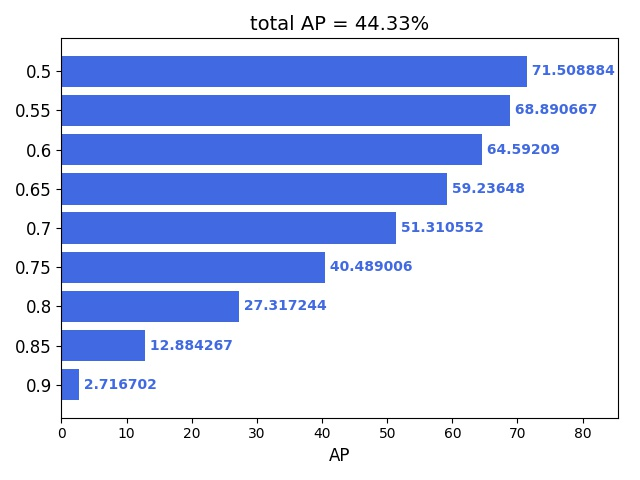
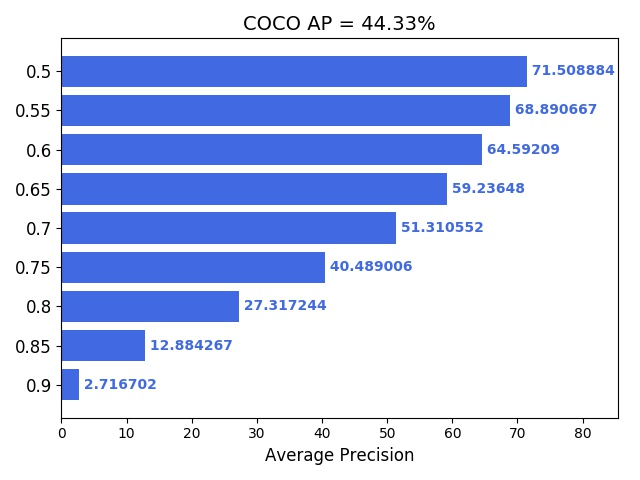
format update

Changed region(s): [[0.375, 0.0312, 0.6875, 0.0625], [0.4062, 0.9375, 0.6562, 0.9688]]

diff --git a/eval.py b/eval.py
@@ -711,8 +711,8 @@ def compute_AP_COCO(annotation_records, gt_classes_records, pred_classes_records
     '''
     touchdir('result')
     window_title = "MSCOCO AP on different IOU"
-    plot_title = "total AP = {0:.2f}%".format(AP)
-    x_label = "AP"
+    plot_title = "COCO AP = {0:.2f}%".format(AP)
+    x_label = "Average Precision"
     output_path = os.path.join('result','COCO_AP.jpg')
     draw_plot_func(APs, len(APs), window_title, plot_title, x_label, output_path, to_show=False, plot_color='royalblue', true_p_bar='')
 

diff --git a/README.md b/README.md
@@ -150,7 +150,7 @@ Use "eval.py" to do evaluation on the inference model with your test data. It su
 # python eval.py --model_path=test.h5 --anchors_path=configs/yolo_anchors.txt --classes_path=configs/voc_classes.txt --model_image_size=416x416 --eval_type=VOC --iou_threshold=0.5 --conf_threshold=0.01 --annotation_file=2007_test.txt --save_result
 ```
 
-Following is a sample result trained on Mobilenet YOLOv3 Lite model:
+Following is a sample result trained on Mobilenet YOLOv3 Lite model with PascalVOC dataset:
 <p align="center"> 
   <img src="assets/mAP.jpg">
   <img src="assets/COCO_AP.jpg">
